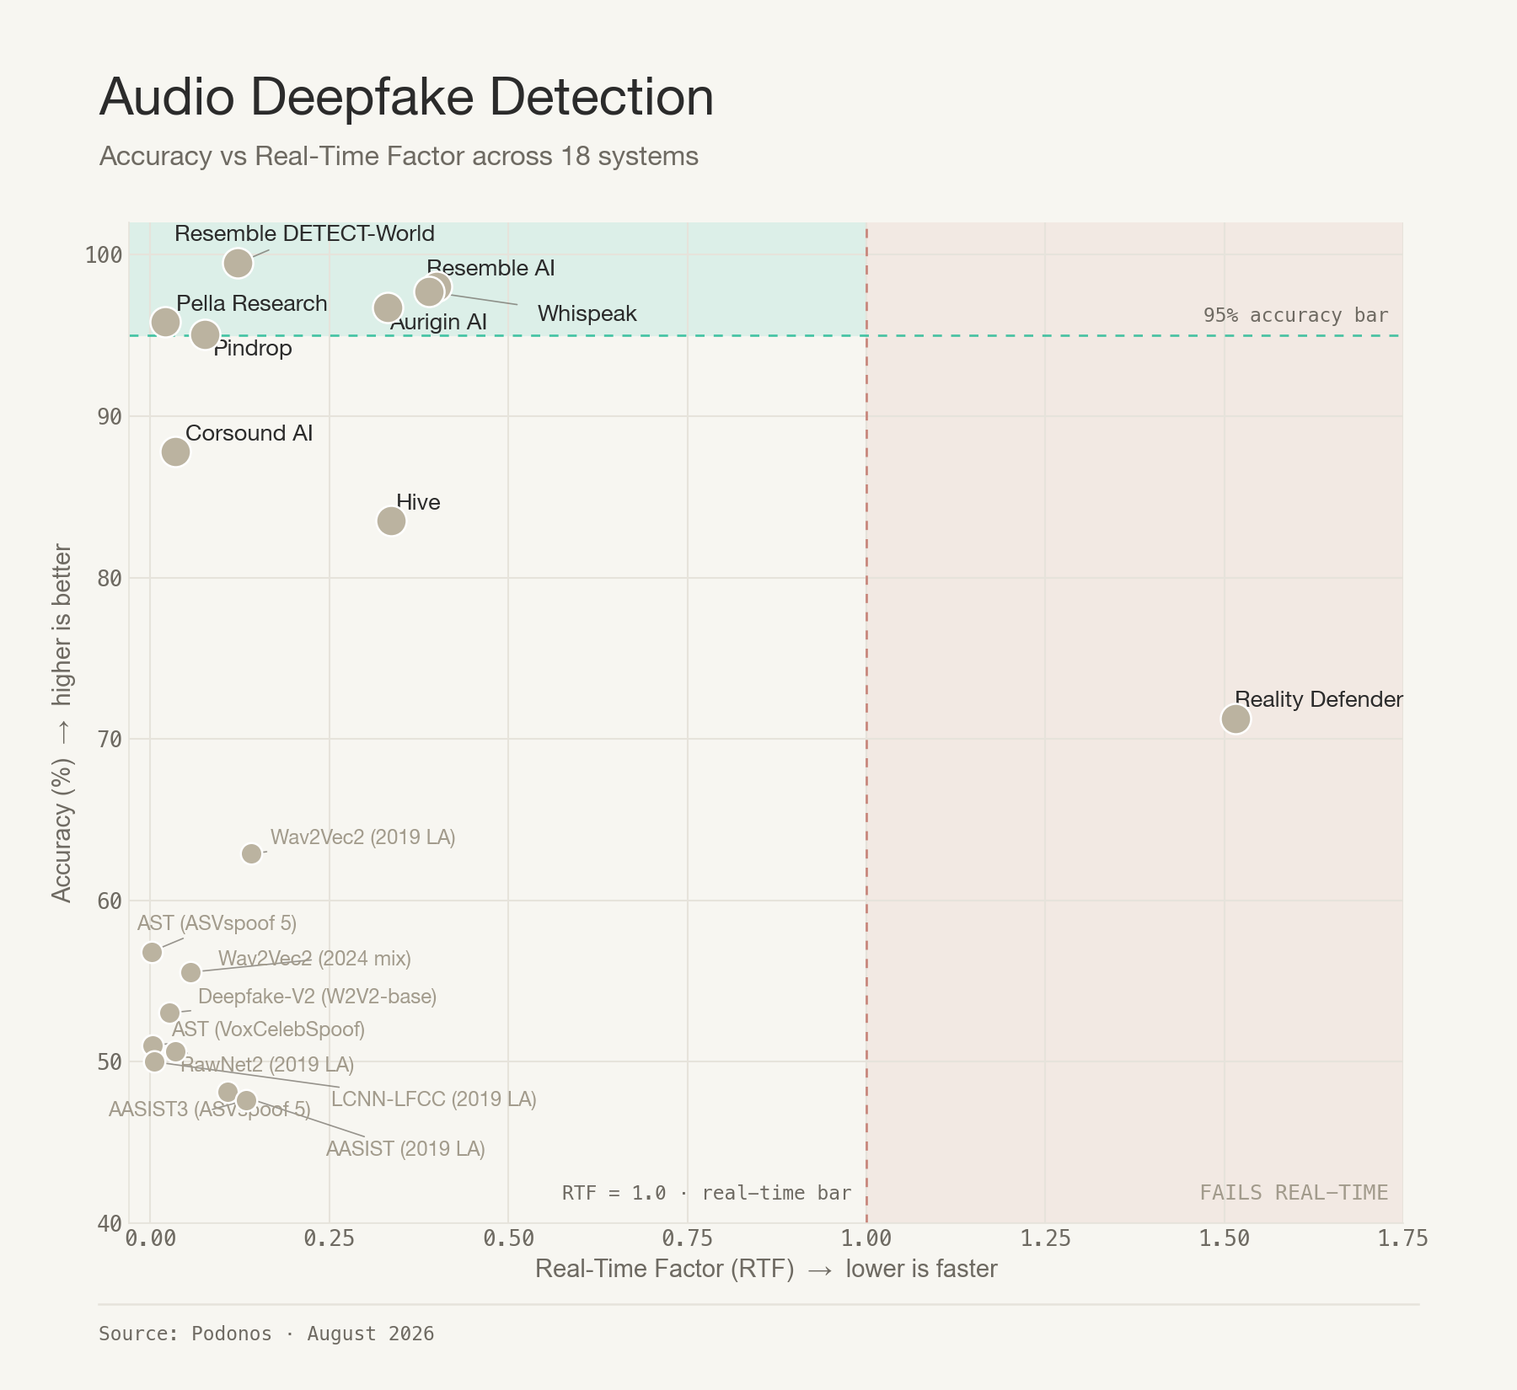
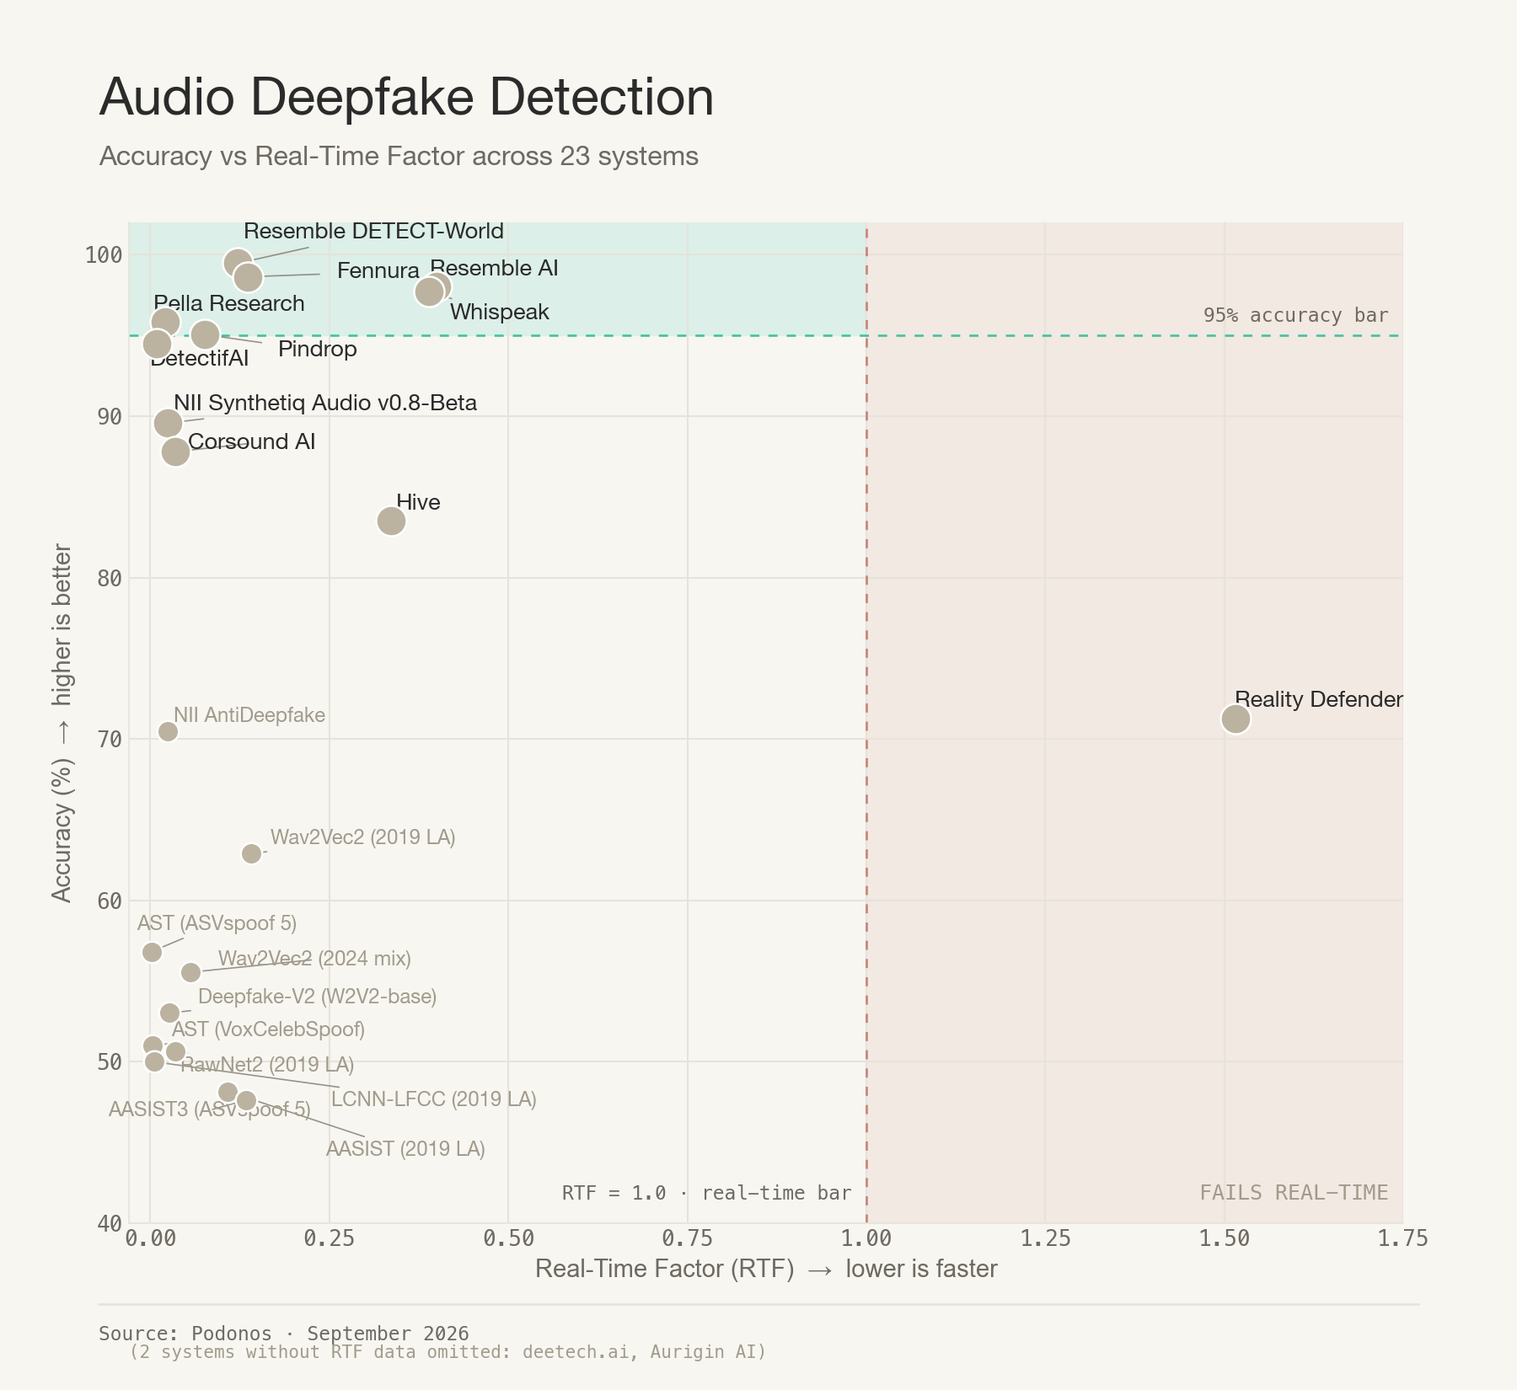
Add deetech.ai, Fennura, DetectifAI and both NII systems; refresh Aurigin
Leaderboard goes from 18 to 23 systems.

New entries, all scored on the full 4,524-file studio track:
  deetech.ai                     99.56%  (row 1)
  Fennura                        98.63%  (row 3)
  DetectifAI                     94.47%  (row 9)
  NII Synthetiq Audio v0.8-Beta  89.57%  (row 10)
  NII AntiDeepfake               70.47%  (row 14, open weights)

Aurigin AI's row is replaced by the updated model the vendor submitted in
September: 96.75% -> 98.21%, moving it from 6th to 4th.

Re-audited every superlative against all 23 rows, per the rule that adding a
row invalidates claims made about the old set. Four were wrong and are fixed:

  - "the only system with both error rates under 1%" (DETECT-World) — deetech
    is also 0.4/0.4, so this is now "one of two"
  - "leads the next open model by 32.9 percentage points" (Pella) — NII
    AntiDeepfake is open-weights at 70.47%, so the real gap is 25.4
  - "10 systems whose weights you can download" — now 11
  - "AASIST3 is non-commercial; the rest permit commercial use" — AntiDeepfake
    is CC BY-NC-SA-4.0, so two are non-commercial

The open-source-baselines paragraph claimed none of the open models generalize.
That was true of the nine legacy checkpoints and is now restated that way,
because AntiDeepfake at 70.47% sits above the 47.6-62.9% band it describes.

Two systems report per-file latency but no clip durations, so they have no RTF
and are omitted from the scatter plot, which names them in its caption.

diff --git a/README.md b/README.md
@@ -12,28 +12,33 @@ A neutral, public benchmark for evaluating audio deepfake detection systems on a
 
 ![Leaderboard: Accuracy](images/leaderboard_accuracy.png)
 
-**18 systems** published: 9 commercial entries (**bold**) from 8 vendors, since Resemble appears twice and 9 open-source baselines, sorted by accuracy. **Pella Research** is a commercial provider that also open-sourced its model (MIT), so it appears among the commercial entries while its weights stay downloadable.
+**23 systems** published: 13 commercial entries (**bold**) from 12 vendors, since Resemble appears twice, and 10 systems whose weights you can download, sorted by accuracy. **Pella Research** is a commercial provider that also open-sourced its model (MIT), so it appears among the commercial entries while its weights stay downloadable. **NII** appears twice for two separate systems: Synthetiq Audio is licensed commercially, AntiDeepfake is an open-weights research release.
 
 | # | System | N | Rej% | Acc% | F1 | FPR% | FNR% | Lat(ms) | RTF |
 |---|--------|---|------|------|-----|------|------|---------|-----|
-| 1 | **[Resemble DETECT-World](https://www.resemble.ai)** | 4524 | 0.0% | **99.47%** | 0.995 | 0.7% | 0.4% | 399 | 0.12 |
-| 2 | **[Resemble AI](https://www.resemble.ai)** ‡ | 4524 | 0.0% | 98.05% | 0.981 | 2.5% | 1.4% | 1,164 | 0.40 |
-| 3 | **[Whispeak](https://whispeak.io)** | 4524 | 0.0% | 97.70% | 0.977 | 2.9% | 1.7% | 1,052 | 0.39 |
-| 4 | **[Aurigin AI](https://aurigin.ai)** ‡ | 4524 | 0.0% | 96.75% | 0.967 | 1.5% | 5.0% | 980 | 0.33 |
-| 5 | **[Pella Research](https://pellaresearch.com)** † | 4524 | 0.0% | 95.82% | 0.959 | 5.5% | 2.8% | 57 | 0.021 |
-| 6 | **[Pindrop](https://www.pindrop.com)** | 4524 | 0.0% | 95.05% | 0.951 | 6.2% | 3.7% | 282 | 0.076 |
-| 7 | **[Corsound AI](https://www.corsound.ai)** | 3875 | 14.3% | 87.79% | 0.865 | 1.0% | 23.1% | 180 | 0.035 |
-| 8 | **[Hive](https://thehive.ai)** ‡ | 4524 | 0.0% | 83.53% | 0.808 | 2.4% | 30.5% | 881 | 0.34 |
-| 9 | **[Reality Defender](https://www.realitydefender.com)** ‡ | 3745 | 17.2% | 71.27% | 0.770 | 53.7% | 3.6% | 5,718 | 1.52 |
-| 10 | [Wav2Vec2 (2019 LA)](https://huggingface.co/Gustking/wav2vec2-large-xlsr-deepfake-audio-classification) | 4524 | 0.0% | 62.89% | 0.514 | 13.4% | 60.8% | 622 | 0.14 |
-| 11 | [AST (ASVspoof 5)](https://huggingface.co/MattyB95/AST-ASVspoof5-Synthetic-Voice-Detection) | 4524 | 0.0% | 56.83% | 0.657 | 69.0% | 17.4% | 5 | 0.0017 |
-| 12 | [Wav2Vec2 (2024 mix)](https://huggingface.co/garystafford/wav2vec2-deepfake-voice-detector) | 4524 | 0.0% | 55.55% | 0.499 | 33.1% | 55.8% | 219 | 0.056 |
-| 13 | [Deepfake-V2 (W2V2-base)](https://huggingface.co/MelodyMachine/Deepfake-audio-detection-V2) | 4524 | 0.0% | 53.03% | 0.162 | 3.1% | 90.9% | 94 | 0.027 |
-| 14 | [AST (VoxCelebSpoof)](https://huggingface.co/MattyB95/AST-VoxCelebSpoof-Synthetic-Voice-Detection) | 4524 | 0.0% | 50.99% | 0.048 | 0.5% | 97.5% | 8 | 0.0030 |
-| 15 | [RawNet2 (2019 LA)](https://huggingface.co/MattyB95/pre_trained_DF_RawNet2) | 4524 | 0.0% | 50.66% | 0.430 | 35.9% | 62.7% | 94 | 0.035 |
-| 16 | [LCNN-LFCC (2019 LA)](https://huggingface.co/MattyB95/pre_trained_DF_LFCC-LCNN) | 4524 | 0.0% | 50.00% | 0.667 | 100.0% | 0.0% | 23 | 0.0056 |
-| 17 | [AASIST (2019 LA)](https://github.com/clovaai/aasist) | 4524 | 0.0% | 48.17% | 0.486 | 52.6% | 51.1% | 322 | 0.11 |
-| 18 | [AASIST3 (ASVspoof 5)](https://huggingface.co/lab260/AASIST3) | 4524 | 0.0% | 47.63% | 0.029 | 6.3% | 98.4% | 363 | 0.13 |
+| 1 | **[deetech.ai](https://deetech.ai)** | 4524 | 0.0% | **99.56%** | 0.996 | 0.4% | 0.4% | 50 | n/a |
+| 2 | **[Resemble DETECT-World](https://www.resemble.ai)** | 4524 | 0.0% | 99.47% | 0.995 | 0.7% | 0.4% | 399 | 0.12 |
+| 3 | **[Fennura](https://fennura.ai)** | 4524 | 0.0% | 98.63% | 0.986 | 1.2% | 1.5% | 553 | 0.14 |
+| 4 | **[Aurigin AI](https://aurigin.ai)** | 4524 | 0.0% | 98.21% | 0.982 | 2.4% | 1.1% | n/a | n/a |
+| 5 | **[Resemble AI](https://www.resemble.ai)** ‡ | 4524 | 0.0% | 98.05% | 0.981 | 2.5% | 1.4% | 1,164 | 0.40 |
+| 6 | **[Whispeak](https://whispeak.io)** | 4524 | 0.0% | 97.70% | 0.977 | 2.9% | 1.7% | 1,052 | 0.39 |
+| 7 | **[Pella Research](https://pellaresearch.com)** † | 4524 | 0.0% | 95.82% | 0.959 | 5.5% | 2.8% | 57 | 0.021 |
+| 8 | **[Pindrop](https://www.pindrop.com)** | 4524 | 0.0% | 95.05% | 0.951 | 6.2% | 3.7% | 282 | 0.076 |
+| 9 | **[DetectifAI](https://detectif.ai)** | 4524 | 0.0% | 94.47% | 0.946 | 8.4% | 2.7% | 24 | 0.0084 |
+| 10 | **[NII Synthetiq Audio v0.8-Beta](https://yamagishilab.jp)** | 4524 | 0.0% | 89.57% | 0.892 | 6.6% | 14.2% | 91 | 0.024 |
+| 11 | **[Corsound AI](https://www.corsound.ai)** | 3875 | 14.3% | 87.79% | 0.865 | 1.0% | 23.1% | 180 | 0.035 |
+| 12 | **[Hive](https://thehive.ai)** ‡ | 4524 | 0.0% | 83.53% | 0.808 | 2.4% | 30.5% | 881 | 0.34 |
+| 13 | **[Reality Defender](https://www.realitydefender.com)** ‡ | 3745 | 17.2% | 71.27% | 0.770 | 53.7% | 3.6% | 5,718 | 1.52 |
+| 14 | [NII AntiDeepfake](https://huggingface.co/nii-yamagishilab/xls-r-2b-anti-deepfake) † | 4524 | 0.0% | 70.47% | 0.584 | 0.4% | 58.6% | 91 | 0.024 |
+| 15 | [Wav2Vec2 (2019 LA)](https://huggingface.co/Gustking/wav2vec2-large-xlsr-deepfake-audio-classification) | 4524 | 0.0% | 62.89% | 0.514 | 13.4% | 60.8% | 622 | 0.14 |
+| 16 | [AST (ASVspoof 5)](https://huggingface.co/MattyB95/AST-ASVspoof5-Synthetic-Voice-Detection) | 4524 | 0.0% | 56.83% | 0.657 | 69.0% | 17.4% | 5 | 0.0017 |
+| 17 | [Wav2Vec2 (2024 mix)](https://huggingface.co/garystafford/wav2vec2-deepfake-voice-detector) | 4524 | 0.0% | 55.55% | 0.499 | 33.1% | 55.8% | 219 | 0.056 |
+| 18 | [Deepfake-V2 (W2V2-base)](https://huggingface.co/MelodyMachine/Deepfake-audio-detection-V2) | 4524 | 0.0% | 53.03% | 0.162 | 3.1% | 90.9% | 94 | 0.027 |
+| 19 | [AST (VoxCelebSpoof)](https://huggingface.co/MattyB95/AST-VoxCelebSpoof-Synthetic-Voice-Detection) | 4524 | 0.0% | 50.99% | 0.048 | 0.5% | 97.5% | 8 | 0.0030 |
+| 20 | [RawNet2 (2019 LA)](https://huggingface.co/MattyB95/pre_trained_DF_RawNet2) | 4524 | 0.0% | 50.66% | 0.430 | 35.9% | 62.7% | 94 | 0.035 |
+| 21 | [LCNN-LFCC (2019 LA)](https://huggingface.co/MattyB95/pre_trained_DF_LFCC-LCNN) | 4524 | 0.0% | 50.00% | 0.667 | 100.0% | 0.0% | 23 | 0.0056 |
+| 22 | [AASIST (2019 LA)](https://github.com/clovaai/aasist) | 4524 | 0.0% | 48.17% | 0.486 | 52.6% | 51.1% | 322 | 0.11 |
+| 23 | [AASIST3 (ASVspoof 5)](https://huggingface.co/lab260/AASIST3) | 4524 | 0.0% | 47.63% | 0.029 | 6.3% | 98.4% | 363 | 0.13 |
 
 **Legend**:
 - **N**: number of evaluated audio files
@@ -52,32 +57,38 @@ A neutral, public benchmark for evaluating audio deepfake detection systems on a
 
 ### Open-weights leaderboard
 
-Ranking everything together buries one result: **of the 10 systems here whose weights you can download and run, Pella Research is far and away the best**, and the only one near production quality.
+Ranking everything together buries one result: **of the 11 systems here whose weights you can download and run, Pella Research is far and away the best**, and the only one near production quality.
 
 | # | Open-weights system | Acc% | F1 | License |
 |---|---------------------|------|-----|---------|
 | 1 | **[Pella Research: pellav2](https://huggingface.co/Sadanie/pellav2-audio-deepfake-detector)** | **95.82%** | 0.959 | MIT |
-| 2 | [Wav2Vec2 (2019 LA)](https://huggingface.co/Gustking/wav2vec2-large-xlsr-deepfake-audio-classification) | 62.89% | 0.514 | Apache-2.0 |
-| 3 | [AST (ASVspoof 5)](https://huggingface.co/MattyB95/AST-ASVspoof5-Synthetic-Voice-Detection) | 56.83% | 0.657 | BSD-3-Clause |
-| 4 | [Wav2Vec2 (2024 mix)](https://huggingface.co/garystafford/wav2vec2-deepfake-voice-detector) | 55.55% | 0.499 | Apache-2.0 |
-| 5 | [Deepfake-V2 (W2V2-base)](https://huggingface.co/MelodyMachine/Deepfake-audio-detection-V2) | 53.03% | 0.162 | Apache-2.0 |
-| 6 | [AST (VoxCelebSpoof)](https://huggingface.co/MattyB95/AST-VoxCelebSpoof-Synthetic-Voice-Detection) | 50.99% | 0.048 | MIT |
-| 7 | [RawNet2 (2019 LA)](https://huggingface.co/MattyB95/pre_trained_DF_RawNet2) | 50.66% | 0.430 | MIT |
-| 8 | [LCNN-LFCC (2019 LA)](https://huggingface.co/MattyB95/pre_trained_DF_LFCC-LCNN) | 50.00% | 0.667 | MIT |
-| 9 | [AASIST (2019 LA)](https://github.com/clovaai/aasist) | 48.17% | 0.486 | MIT |
-| 10 | [AASIST3 (ASVspoof 5)](https://huggingface.co/lab260/AASIST3) | 47.63% | 0.029 | **CC BY-NC-4.0** (non-commercial) |
+| 2 | [NII AntiDeepfake](https://huggingface.co/nii-yamagishilab/xls-r-2b-anti-deepfake) | 70.47% | 0.584 | **CC BY-NC-SA-4.0** (non-commercial) |
+| 3 | [Wav2Vec2 (2019 LA)](https://huggingface.co/Gustking/wav2vec2-large-xlsr-deepfake-audio-classification) | 62.89% | 0.514 | Apache-2.0 |
+| 4 | [AST (ASVspoof 5)](https://huggingface.co/MattyB95/AST-ASVspoof5-Synthetic-Voice-Detection) | 56.83% | 0.657 | BSD-3-Clause |
+| 5 | [Wav2Vec2 (2024 mix)](https://huggingface.co/garystafford/wav2vec2-deepfake-voice-detector) | 55.55% | 0.499 | Apache-2.0 |
+| 6 | [Deepfake-V2 (W2V2-base)](https://huggingface.co/MelodyMachine/Deepfake-audio-detection-V2) | 53.03% | 0.162 | Apache-2.0 |
+| 7 | [AST (VoxCelebSpoof)](https://huggingface.co/MattyB95/AST-VoxCelebSpoof-Synthetic-Voice-Detection) | 50.99% | 0.048 | MIT |
+| 8 | [RawNet2 (2019 LA)](https://huggingface.co/MattyB95/pre_trained_DF_RawNet2) | 50.66% | 0.430 | MIT |
+| 9 | [LCNN-LFCC (2019 LA)](https://huggingface.co/MattyB95/pre_trained_DF_LFCC-LCNN) | 50.00% | 0.667 | MIT |
+| 10 | [AASIST (2019 LA)](https://github.com/clovaai/aasist) | 48.17% | 0.486 | MIT |
+| 11 | [AASIST3 (ASVspoof 5)](https://huggingface.co/lab260/AASIST3) | 47.63% | 0.029 | **CC BY-NC-4.0** (non-commercial) |
 
-The 95.82 % figure was produced by the public `pellav2` checkpoint, confirmed by the vendor. **AASIST3 is non-commercial (CC BY-NC-4.0)**; the rest permit commercial use.
+The 95.82 % figure was produced by the public `pellav2` checkpoint, confirmed by the vendor. **Two are non-commercial: NII AntiDeepfake (CC BY-NC-SA-4.0) and AASIST3 (CC BY-NC-4.0)**; the rest permit commercial use.
 
-**Pella Research leads the next open model by 32.9 percentage points** and is the only downloadable system to clear the 95 % production bar. None of the systems above it publishes downloadable weights. So if you need a model you can inspect or audit yourself, the practical choice set is one deep, and the gap to the next open model is not incremental.
+**Pella Research leads the next open model by 25.4 percentage points** and is the only downloadable system to clear the 95 % production bar. None of the systems above it publishes downloadable weights. So if you need a model you can inspect or audit yourself, the practical choice set is one deep, and the gap to the next open model is not incremental.
 
 Pella also sells a hosted API; the open weights are in addition, not instead.
 
 ### Observations
 
-**Commercial systems.** Six clear 95 % accuracy. Pick by which error costs you more.
+**Commercial systems.** Eight clear 95 % accuracy. Pick by which error costs you more.
 
-- **Resemble DETECT-World**: 99.47 %, F1 0.995. The only system with **both** error rates under 1 % (FPR 0.7 %, FNR 0.4 %): it misses ~1 in 250 fakes and false-flags ~1 in 150 real clips, roughly 3–4× better than the next system on both. 99.2–99.7 % on every format, no weak spot. The default pick.
+- **deetech.ai**: 99.56 %, F1 0.996, the highest accuracy on the board, with FPR and FNR both at 0.4 % (20 misclassified clips out of 4,524). Its `predictions.csv` assigns exactly 2,262 real and 2,262 fake, matching the published 50/50 class balance; that calibration forces FPR and FNR to be equal, so its error split reflects the chosen operating point rather than an independent property of the detector. It reported per-file latency but no clip durations, so it has no RTF.
+- **Resemble DETECT-World**: 99.47 %, F1 0.995. One of two systems with **both** error rates under 1 % (FPR 0.7 %, FNR 0.4 %): it misses ~1 in 250 fakes and false-flags ~1 in 150 real clips. 99.2–99.7 % on every format, no weak spot, and unlike the system above it, its threshold was set without reference to the class balance.
+- **Fennura**: 98.63 %, F1 0.986, balanced 1.2 % FPR / 1.5 % FNR. Generated entirely on a notebook CPU with no GPU at inference time, which makes it the strongest result here from an on-device target.
+- **Aurigin AI**: 98.21 %, F1 0.982, FNR 1.1 % against FPR 2.4 %. This is an updated model the vendor submitted in September; it did not include latency figures, so it has no Lat/RTF.
+- **DetectifAI**: 94.47 %, F1 0.946, and the lowest reported per-file latency on the board (~24 ms). Errors lean strongly to false positives (FPR 8.4 % / FNR 2.7 %).
+- **NII Synthetiq Audio v0.8-Beta**: 89.57 %, F1 0.892, FPR 6.6 % / FNR 14.2 %. Licensed commercially to Japanese companies by the Yamagishi Lab at the National Institute of Informatics; latency measured by the lab on an NVIDIA H100.
 - **Resemble AI**: 98.05 %, F1 0.981. FNR 1.4 %, FPR 2.5 %. The previous generation; DETECT-World beats it on both error types at a third of the latency.
 - **Whispeak**: 97.70 %, F1 0.977. Balanced 2.9 % FPR / 1.7 % FNR, with no strong lean either way.
 - **Aurigin AI**: 96.75 %, F1 0.967. **FPR 1.5 %**, behind only DETECT-World among systems that keep FNR under 10 %. Choose it when **false alarms cost more than missed fakes**: moderation at scale, automated takedowns.
@@ -87,15 +98,16 @@ Pella also sells a hosted API; the open weights are in addition, not instead.
 - **Hive**: 83.5 %, FPR 2.4 %, FNR 30.5 %. Same conservative shape as Corsound.
 - **Reality Defender**: 71.3 % with **FPR 53.7 %**, false-flagging over half of all real audio. **Rejects 17.2 % of files**, mostly clips under ~1.5 s, and is slower than real-time.
 
-**Open-source baselines: none of these nine generalize to modern TTS.**
+**Open-source baselines: none of the nine legacy checkpoints generalize to modern TTS.**
 - All nine land in the **47.6–62.9 %** band, near random. This holds regardless of training era: **ASVspoof 2019 LA** and newer **ASVspoof 5 / VoxCelebSpoof** models both collapse on this distribution of current voice-cloning systems.
 - **Wav2Vec2 (2019 LA)** is the strongest of the nine at 62.9 %.
+- Two open-weights models sit above that band and are the exceptions to the paragraph: **NII AntiDeepfake** at 70.5 % and **pellav2** at 95.8 %. AntiDeepfake is the most conservative system on the whole board, with an FPR of **0.4 %** against an FNR of **58.6 %**: it essentially never false-flags real audio and misses close to 6 fakes in 10. That is a deliberate operating point, not a failure to train, and it is the right shape for a screening pass where a false accusation is the expensive error.
 - Several are **degenerate**, collapsing to one class: **AST (VoxCelebSpoof)** (97.5 % FNR), **AASIST3** (98.4 % FNR) and **Deepfake-V2** (90.9 % FNR) call almost everything real. **LCNN-LFCC** emits a single class under our runner's fixed decision threshold, which sits outside the score range the checkpoint actually produces, so its 50.00 % reflects our harness rather than the model. Their accuracy is an artifact of the 50/50 balance, not skill.
-- **Open weights are not the problem; stale training data is.** These nine were trained on ASVspoof-era artifacts modern TTS no longer produces. The tenth open-weights model here, [pellav2](#open-weights-leaderboard), was trained on current synthesis and scores **95.82 %**.
+- **Open weights are not the problem; stale training data is.** These nine were trained on ASVspoof-era artifacts modern TTS no longer produces. The two open-weights models trained on current synthesis, [pellav2](#open-weights-leaderboard) and [AntiDeepfake](#open-weights-leaderboard), score **95.82 %** and **70.47 %**.
 
 **Latency / RTF** (mixed provenance: see the note above; not measured on common hardware):
 - Reality Defender is the only system slower than real-time: ~5.7 s per file, longer than most clips in the set. Not viable for streaming.
-- Everything else runs faster than real-time. Among commercial systems, Pella Research reports the lowest per-file latency (~57 ms, but on a 4-second crop), then Corsound (180 ms), Pindrop (282 ms) and DETECT-World (399 ms); Resemble AI, Whispeak, Aurigin and Hive sit around RTF 0.33–0.40.
+- Everything else runs faster than real-time. Among commercial systems, DetectifAI reports the lowest per-file latency (~24 ms), then deetech.ai (~50 ms) and Pella Research (~57 ms, but on a 4-second crop), then NII Synthetiq (91 ms), Corsound (180 ms), Pindrop (282 ms) and DETECT-World (399 ms); Resemble AI, Whispeak and Hive sit around RTF 0.33–0.40. deetech.ai and Aurigin AI submitted no clip durations, so neither has an RTF and both are omitted from the scatter plot above.
 - Several open-source models are faster still (AST at ~5 ms): they run locally with no network hop, so their RTF is pure compute cost. At near-random accuracy that speed buys little.
 
 ### Error Profile
@@ -227,7 +239,7 @@ Outputs the per-model breakdown including per-format accuracy and the leaderboar
 
 ### Commercial APIs
 
-These nine entries come from eight vendors, since Resemble appears twice. All offer a hosted detection API; **Pella Research** additionally publishes its weights under MIT.
+These 13 entries come from 12 vendors, since Resemble appears twice. All offer a hosted detection API or a commercial licence; **Pella Research** additionally publishes its weights under MIT, and the **NII** Yamagishi Lab separately publishes the open-weights AntiDeepfake model listed among the open-source baselines below.
 
 | Vendor | Product / Model | Docs / Product page |
 |--------|-----------------|---------------------|
@@ -240,13 +252,18 @@ These nine entries come from eight vendors, since Resemble appears twice. All of
 | [**Corsound AI**](https://www.corsound.ai) | Deepfake Detect | https://apis.corsound.ai/ |
 | [**Hive**](https://thehive.ai) | AI-generated audio detection | https://docs.thehive.ai/docs/ai-generated-audio-detection |
 | [**Reality Defender**](https://www.realitydefender.com) | RealAPI | https://docs.realitydefender.com |
+| [**deetech.ai**](https://deetech.ai) | deetech.ai v2 | https://deetech.ai |
+| [**Fennura**](https://fennura.ai) | On-device detector (CPU-only inference) | https://fennura.ai |
+| [**DetectifAI**](https://detectif.ai) | Real-time audio deepfake detection | https://detectif.ai |
+| [**NII Yamagishi Lab**](https://yamagishilab.jp) | Synthetiq Audio v0.8-Beta (commercial licence) | https://yamagishilab.jp |
 
 ### Open-source baselines
 
-Two generations are included: **legacy** models trained on ASVspoof 2019 LA, and **modern** models trained on the newer ASVspoof 5 / VoxCelebSpoof corpora. Neither generation generalizes to the modern commercial TTS in this benchmark.
+Two generations of baseline are included: **legacy** models trained on ASVspoof 2019 LA, and **modern** models trained on the newer ASVspoof 5 / VoxCelebSpoof corpora. Neither generation generalizes to the modern commercial TTS in this benchmark. **NII AntiDeepfake** is listed here as an open-weights release rather than a baseline: it was submitted by its authors and scores well above both generations.
 
 | Model | Source | Architecture | Training data |
 |-------|--------|--------------|---------------|
+| [NII AntiDeepfake](https://huggingface.co/nii-yamagishilab/xls-r-2b-anti-deepfake) | nii-yamagishilab/xls-r-2b-anti-deepfake ([paper](https://arxiv.org/abs/2506.21090), ASRU 2025) | XLS-R 2B | see paper |
 | [Wav2Vec2 (2019 LA)](https://huggingface.co/Gustking/wav2vec2-large-xlsr-deepfake-audio-classification) | Gustking/wav2vec2-large-xlsr-deepfake-audio-classification | SSL XLSR + fine-tuned classifier | ASVspoof 2019 LA |
 | [AASIST (2019 LA)](https://github.com/clovaai/aasist) | clovaai/aasist | Graph attention on raw waveform | ASVspoof 2019 LA |
 | [RawNet2 (2019 LA)](https://huggingface.co/MattyB95/pre_trained_DF_RawNet2) | MattyB95/pre_trained_DF_RawNet2 | End-to-end CNN on raw waveform | ASVspoof 2019 LA |
